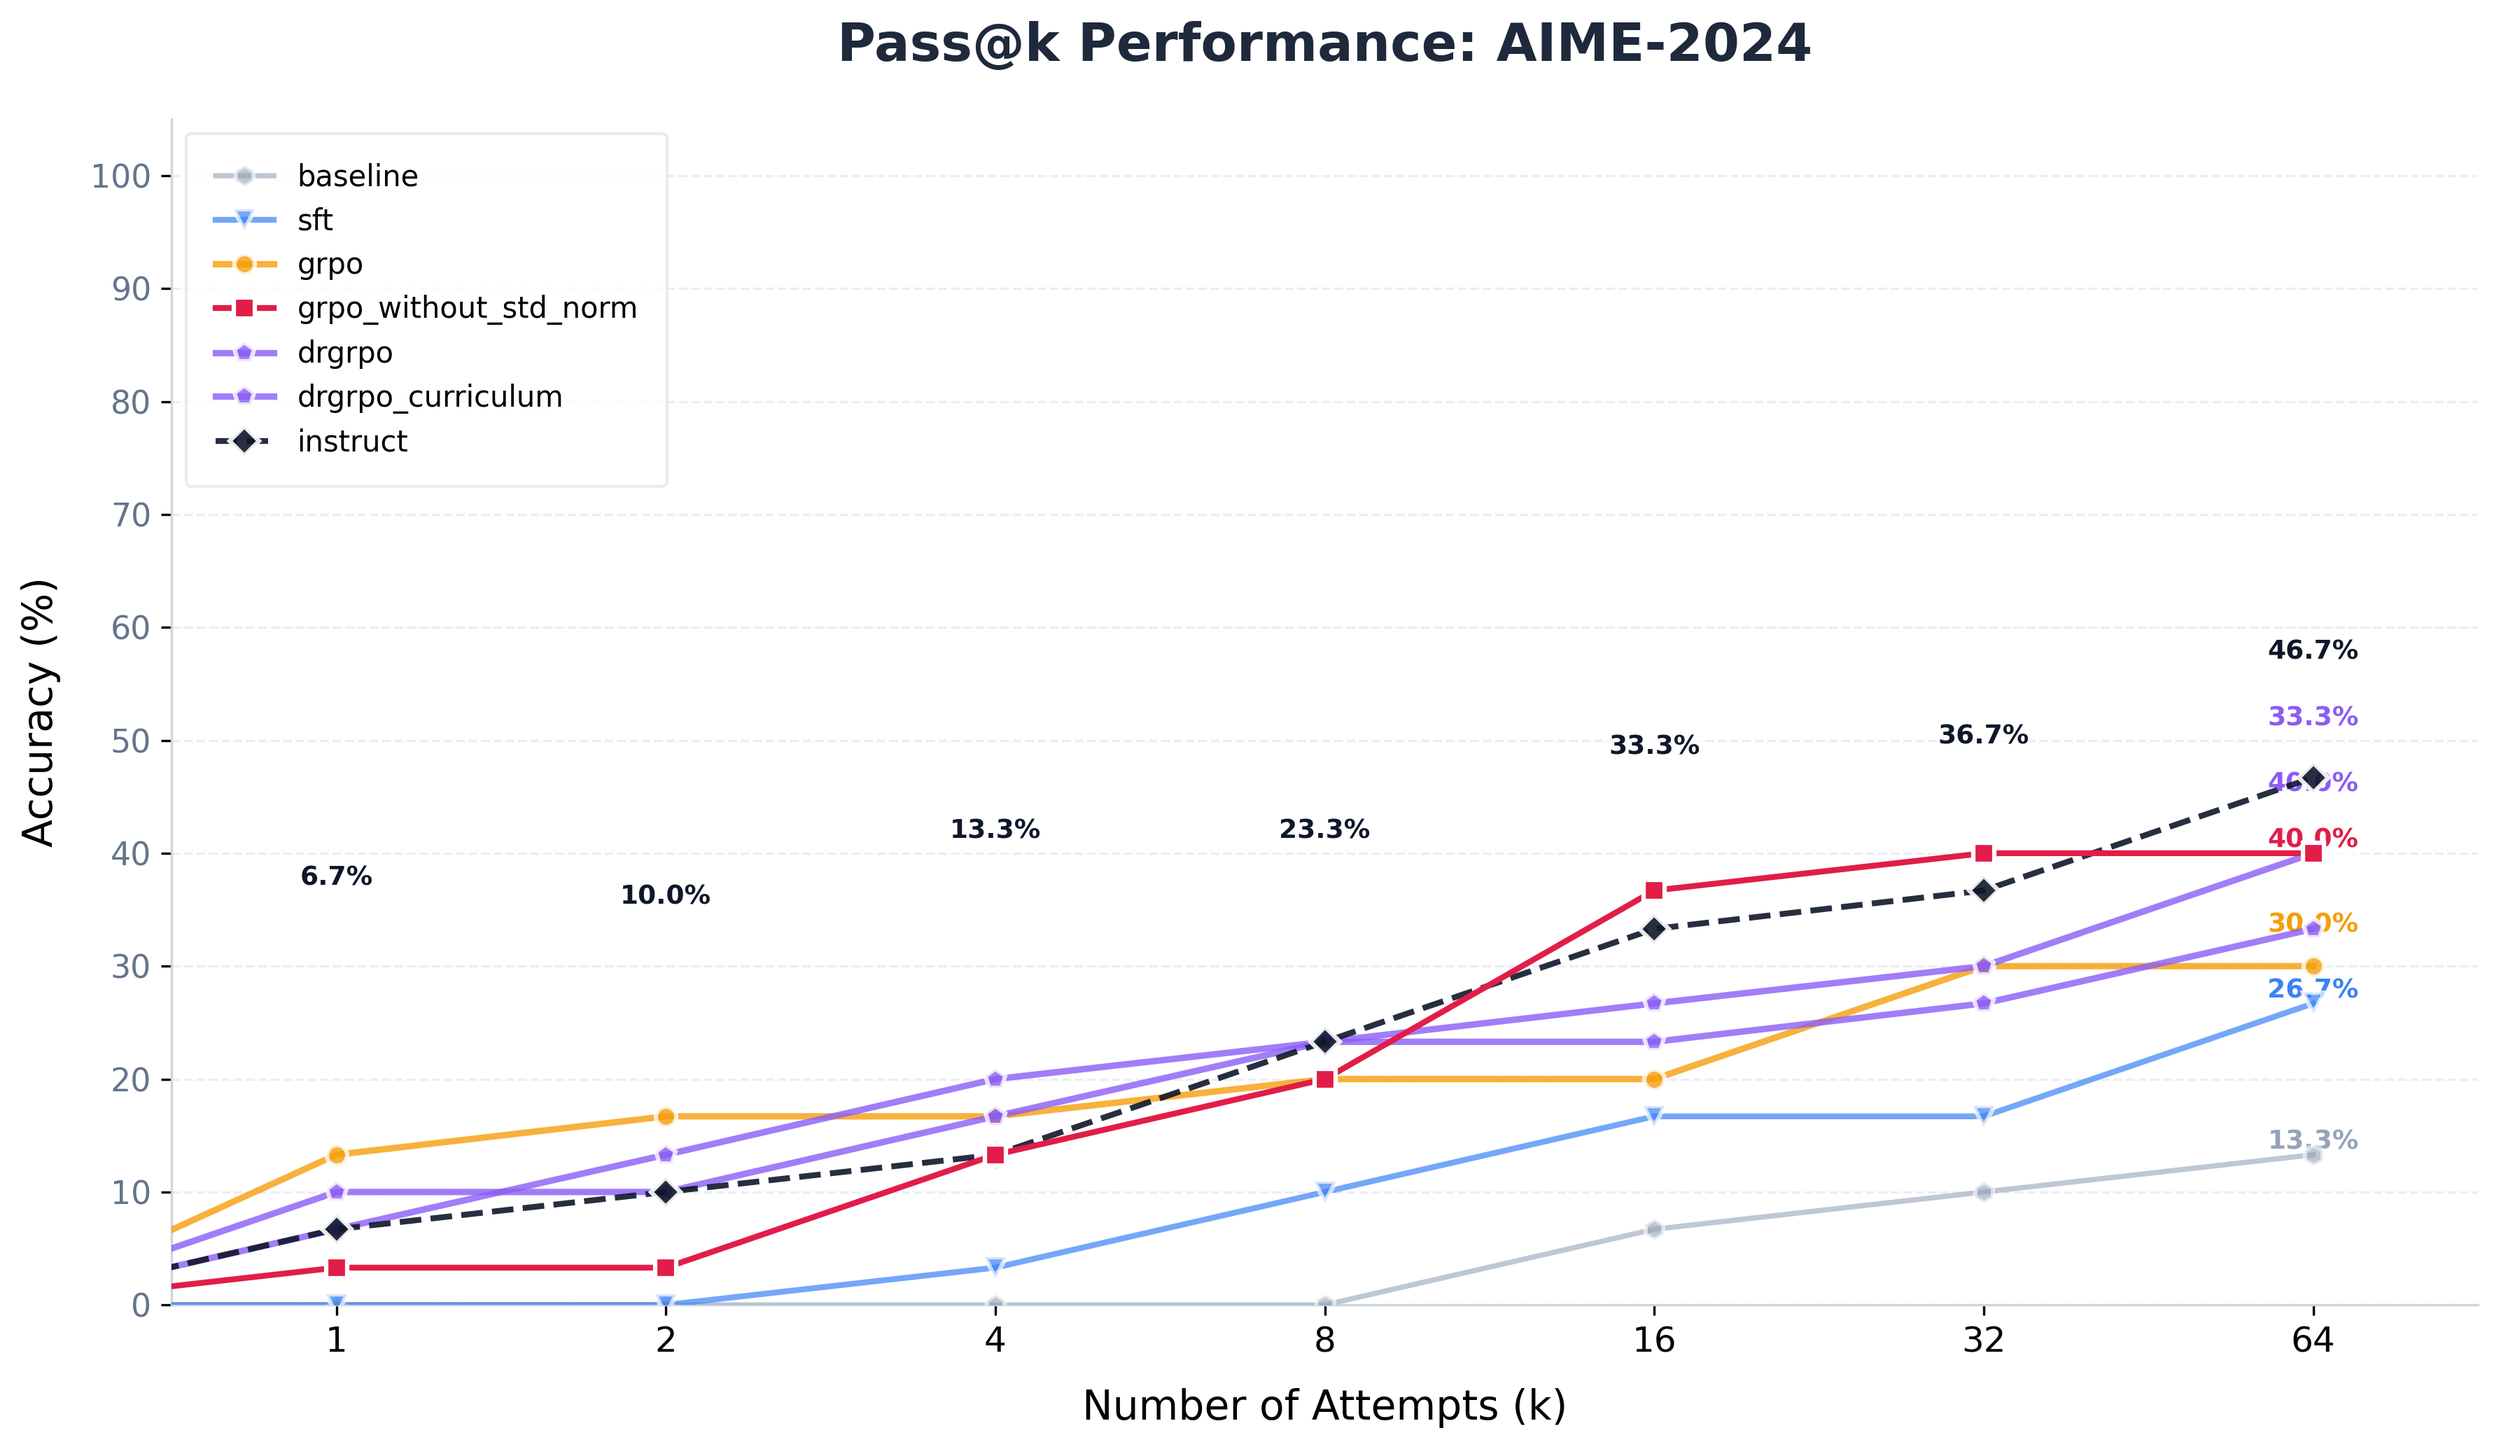
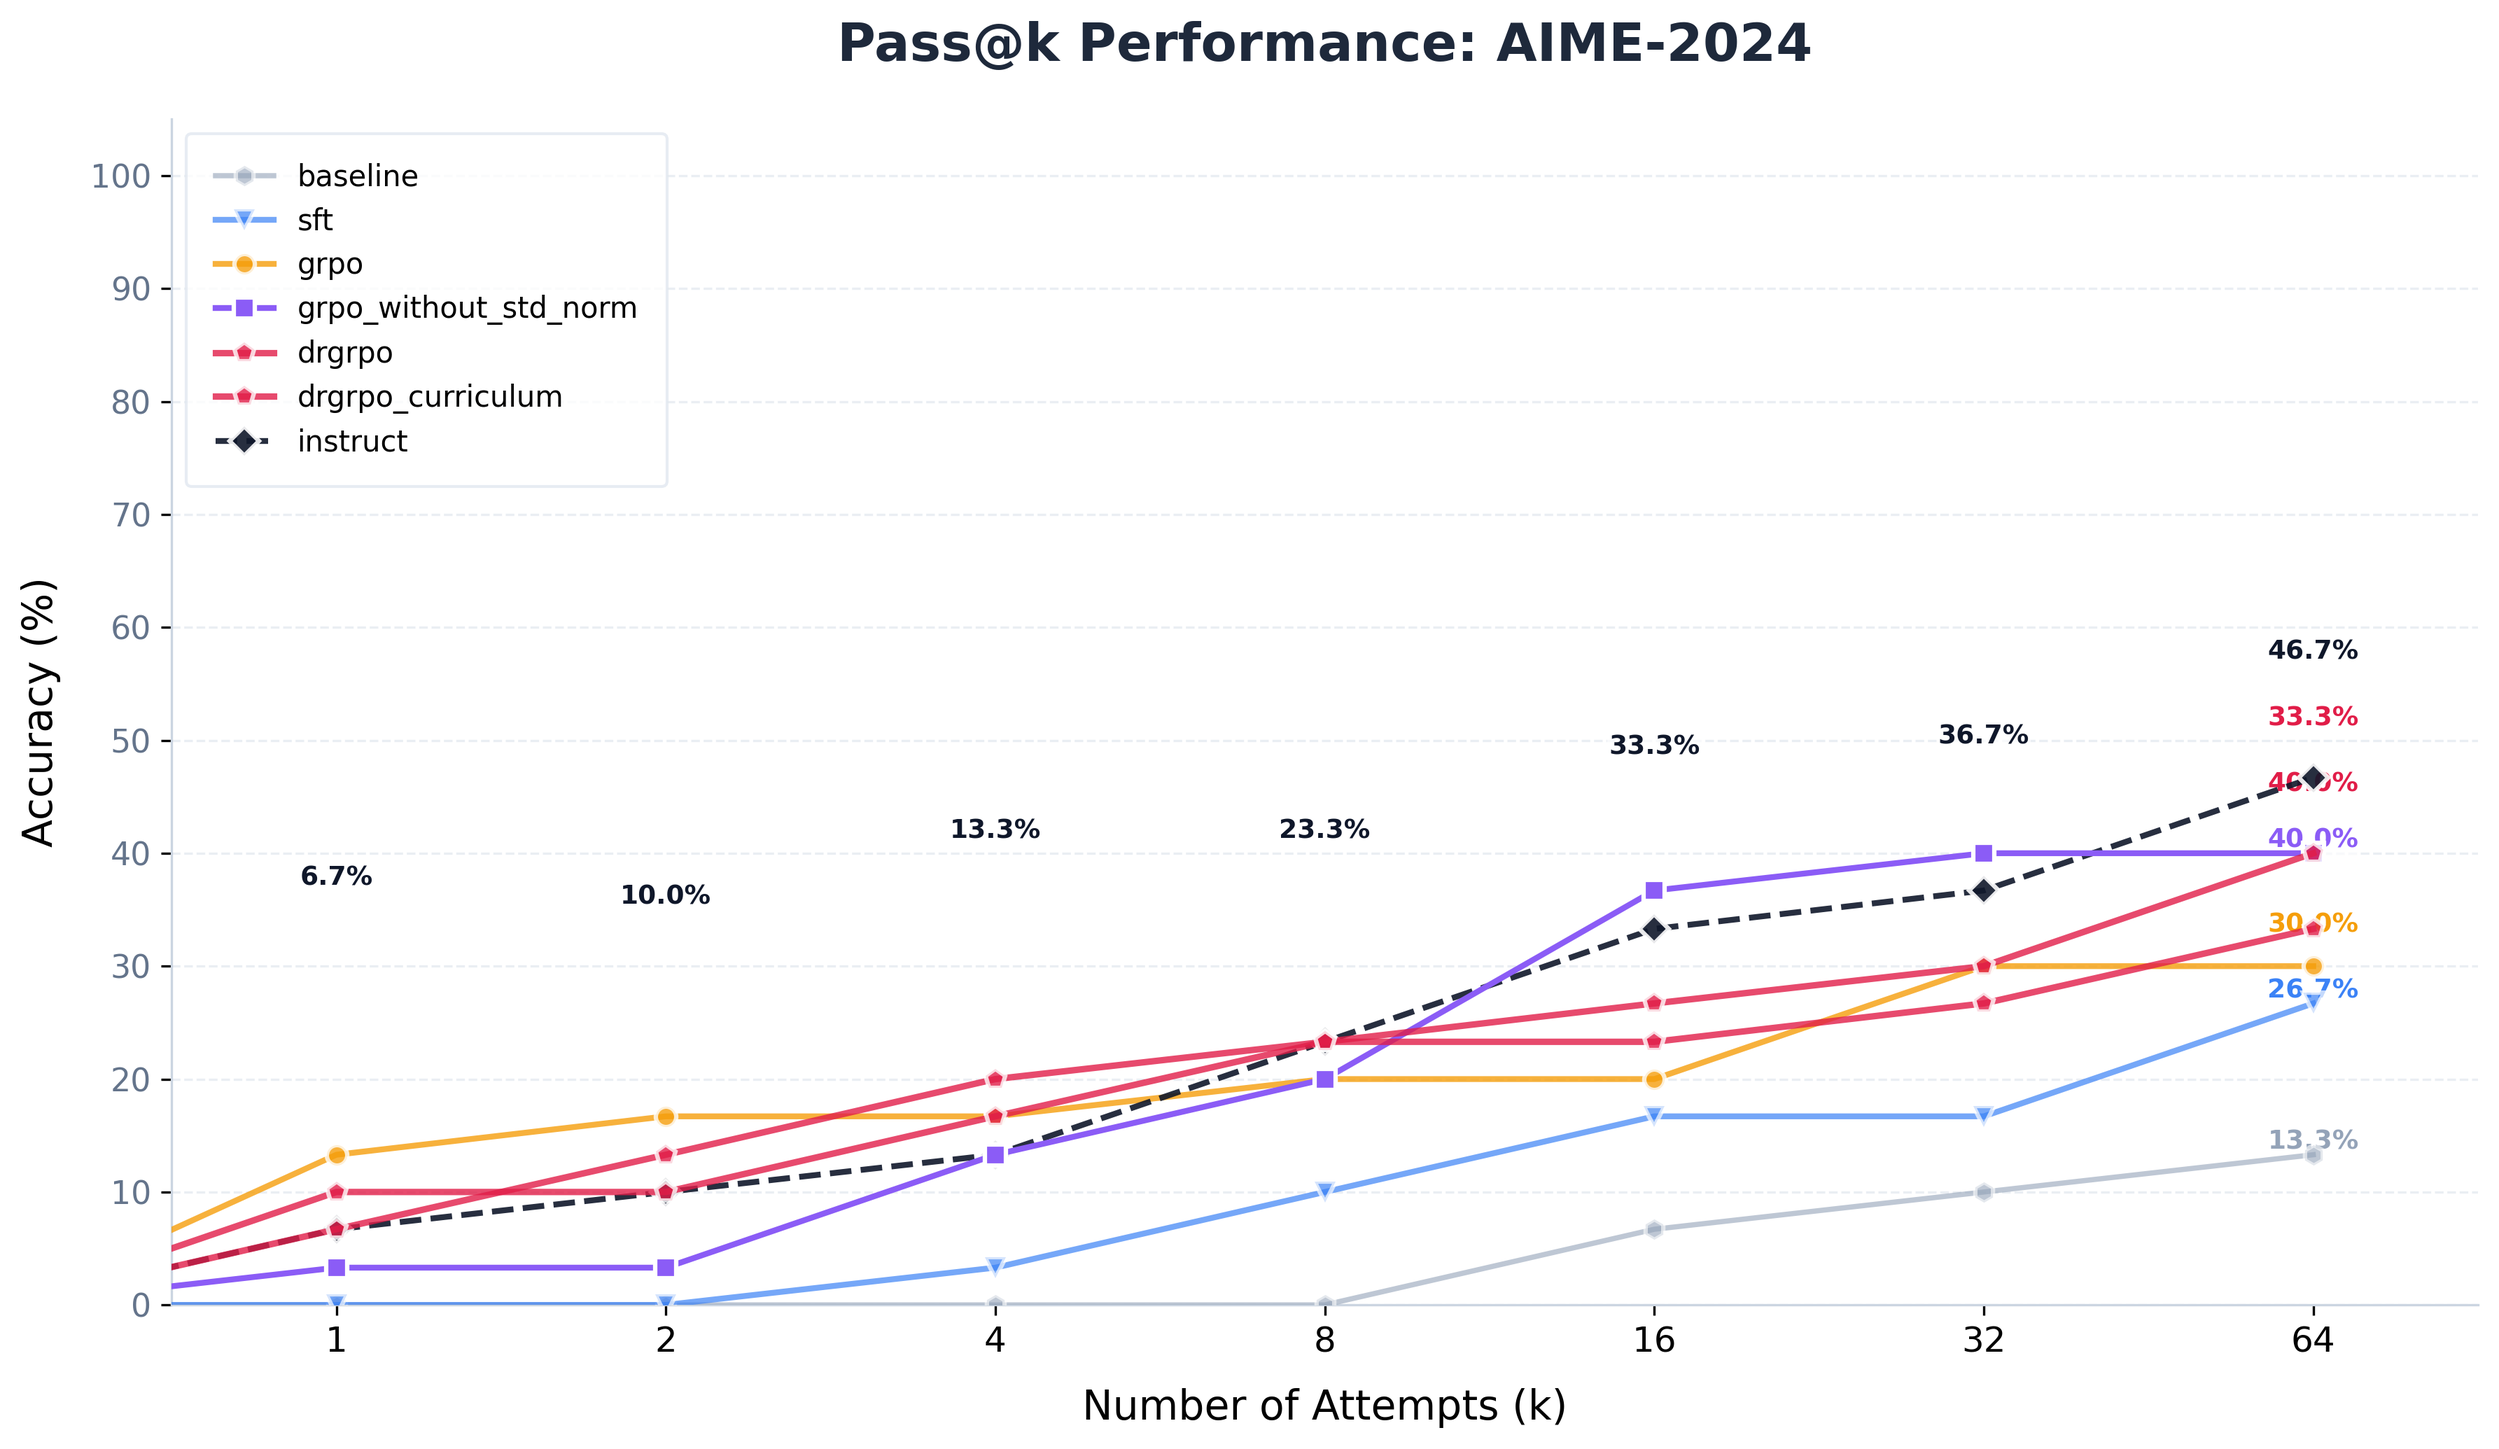
update pass@k for pacs and pass@k curve

Changed region(s): [[0.0622, 0.5256, 0.9328, 0.8966], [0.0933, 0.1855, 0.1244, 0.2783], [0.6218, 0.6184, 0.6529, 0.6493]]

diff --git a/assignment5-alignment/cs336_alignment/plotting/plot_passk_curve.py b/assignment5-alignment/cs336_alignment/plotting/plot_passk_curve.py
@@ -10,12 +10,13 @@ def plot_pass_k_curve(results_list, task_name: str, show_k_list=[1, 2, 4, 8], te
     # --- 1. 定义专业配色与样式配置 ---
     # 颜色字典：确保不同实验版本颜色固定，方便对比
     STYLE_CONFIG = {
-        'grpo_without_std_norm': {'color': '#E11D48', 'z': 20, 'lw': 2.0, 'marker': 's', 'alpha': 1.0},  # 核心实验：玫瑰红
-        'instruct': {'color': '#0F172A', 'z': 15, 'lw': 2.0, 'marker': 'D', 'alpha': 0.9, 'ls': '--'},  # 官方：深蓝黑
-        'drgrpo': {'color': '#8B5CF6', 'z': 10, 'lw': 2.2, 'marker': 'p', 'alpha': 0.8},  # 紫色
-        'grpo': {'color': '#F59E0B', 'z': 10, 'lw': 2.2, 'marker': 'o', 'alpha': 0.8},  # 琥珀色
+        'grpo_without_std_norm': {'color': '#8B5CF6', 'z': 18, 'lw': 2.0, 'marker': 's', 'alpha': 1.0},  # 紫色
+        'instruct': {'color': '#0F172A', 'z': 15, 'lw': 2.0, 'marker': 'D', 'alpha': 0.9, 'ls': '--'},  # 深蓝黑
+        'drgrpo': {'color': '#E11D48', 'z': 20, 'lw': 2.2, 'marker': 'p', 'alpha': 0.8},  # 玫瑰红
+        'grpo': {'color': '#F59E0B', 'z': 10, 'lw': 2.0, 'marker': 'o', 'alpha': 0.8},  # 琥珀色
         'sft': {'color': '#3B82F6', 'z': 8, 'lw': 2.0, 'marker': 'v', 'alpha': 0.7},  # 蓝色
         'baseline': {'color': '#94A3B8', 'z': 5, 'lw': 1.8, 'marker': 'h', 'alpha': 0.6},  # 灰色
+        'pacs': {'color': '#009182', 'z': 22, 'lw': 2.0, 'marker': '^', 'alpha': 0.8} # 墨绿色
     }
 
     plt.figure(figsize=(12, 7), dpi=300)
@@ -125,9 +126,9 @@ def plot_pass_k_curve(results_list, task_name: str, show_k_list=[1, 2, 4, 8], te
     save_dir = os.path.join(os.getcwd(), 'asset/')
     os.makedirs(save_dir, exist_ok=True)
     if text:
-        save_name = f'{task_name}_Pass@{last_k}对比图.png'
+        save_name = f'{task_name}_Pass@{last_k}对比图（含PACS）.png'
     else:
-        save_name = f'{task_name}_Pass@{last_k}对比图-无标注.png'
+        save_name = f'{task_name}_Pass@{last_k}对比图（含PACS）-无标注.png'
     save_path = os.path.join(save_dir, save_name)
     plt.savefig(save_path, dpi=300, bbox_inches='tight')
     plt.close()  # 释放内存
@@ -154,6 +155,10 @@ if __name__ == "__main__":
     grpo_math_test_pass8_result = {'grpo': (0.598, 0.721, 0.769, 0.795, 0.814, 0.825, 0.838, 0.847)}
 
     drgrpo_math_test_pass8_result = {'drgrpo': (0.585, 0.714, 0.760, 0.791, 0.809, 0.823, 0.835, 0.844)}
+
+
+    pacs_math_test_pass8_results = {'pacs': (0.585, 0.710, 0.762, 0.791, 0.812, 0.826, 0.836, 0.843)}
+
 
     baseline_math500_pass64_result = {'baseline': (0.144, 0.262, 0.320, 0.414, 0.482, 0.524, 0.578, 0.614,
                                                    0.642, 0.664, 0.700, 0.710, 0.714, 0.734, 0.750, 0.758,
@@ -410,11 +415,48 @@ if __name__ == "__main__":
                                                                      0.267, 0.267, 0.267, 0.300, 0.300, 0.333, 0.333, 0.333,
                                                                      0.333, 0.333, 0.333, 0.333, 0.333, 0.333, 0.333, 0.333)}
 
-    math_test_pass8_results  = [baseline_math_test_pass8_result, sft_math_test_pass8_result, grpo_without_std_norm_math_test_pass8_result, grpo_math_test_pass8_result, drgrpo_math_test_pass8_result, instruct_math_test_pass8_result]
-    math500_pass64_results   = [baseline_math500_pass64_result, sft_math500_pass64_result, grpo_math500_pass64_result, grpo_without_std_norm_math500_pass64_result, drgrpo_math500_pass64_result, drgrpo_curriculum_math500_pass64_results, instruct_math500_pass64_result]
-    amc12_pass64_results     = [baseline_AMC12_pass64_result, sft_AMC12_pass64_result, grpo_AMC12_pass64_result, grpo_without_std_norm_AMC12_pass64_result, drgrpo_amc_pass64_result,drgrpo_curriculum_amc12_pass64_results, instruct_AMC_12_pass64_result]
-    aime_2025_pass64_results = [baseline_aime25_pass64_result, sft_aime25_pass64_result, grpo_aime25_pass64_result, grpo_without_std_norm_aime25_pass64_result, drgrpo_aime25_pass64_result, instruct_aime25_pass64_result]
-    aime_2024_pass64_results = [baseline_aime24_pass64_result, sft_aime24_pass64_result, grpo_aime24_pass64_result, grpo_without_std_norm_aime24_pass64_result, drgrpo_aime24_pass64_result,drgrpo_curriculum_aime24_pass64_results, instruct_aime24_pass64_result]
+    pacs_aime24_pass64_results = {'pacs': (0.033, 0.067, 0.100, 0.133, 0.167, 0.167, 0.167, 0.200,
+                                           0.200, 0.233, 0.267, 0.267, 0.267, 0.267, 0.300, 0.300,
+                                           0.300, 0.300, 0.300, 0.300, 0.300, 0.300, 0.300, 0.300,
+                                           0.300, 0.300, 0.333, 0.367, 0.367, 0.367, 0.367, 0.367,
+                                           0.367, 0.367, 0.367, 0.367, 0.367, 0.367, 0.367, 0.367,
+                                           0.367, 0.367, 0.367, 0.367, 0.367, 0.367, 0.367, 0.367,
+                                           0.400, 0.400, 0.400, 0.400, 0.400, 0.400, 0.400, 0.400,
+                                           0.400, 0.400, 0.400, 0.400, 0.400, 0.400, 0.400, 0.400)}
+
+    pacs_aime25_pass64_results = {'pacs': (0.067, 0.100, 0.100, 0.167, 0.200, 0.200, 0.200, 0.200,
+                                           0.200, 0.200, 0.200, 0.200, 0.200, 0.233, 0.267, 0.267,
+                                           0.267, 0.267, 0.267, 0.300, 0.300, 0.300, 0.300, 0.300,
+                                           0.300, 0.300, 0.300, 0.333, 0.333, 0.333, 0.333, 0.333,
+                                           0.333, 0.333, 0.333, 0.333, 0.333, 0.333, 0.333, 0.333,
+                                           0.333, 0.333, 0.333, 0.333, 0.333, 0.333, 0.333, 0.333,
+                                           0.333, 0.333, 0.333, 0.333, 0.333, 0.333, 0.333, 0.333,
+                                           0.333, 0.333, 0.333, 0.333, 0.333, 0.333, 0.333, 0.333)}
+
+    pacs_amc_pass64_results = {'pacs':    (0.241, 0.398, 0.434, 0.494, 0.518, 0.530, 0.566, 0.566,
+                                           0.578, 0.578, 0.590, 0.602, 0.602, 0.614, 0.663, 0.663,
+                                           0.675, 0.675, 0.675, 0.675, 0.675, 0.699, 0.699, 0.699,
+                                           0.699, 0.699, 0.699, 0.699, 0.699, 0.699, 0.699, 0.699,
+                                           0.711, 0.723, 0.723, 0.723, 0.723, 0.723, 0.723, 0.723,
+                                           0.723, 0.735, 0.735, 0.735, 0.735, 0.735, 0.735, 0.735,
+                                           0.747, 0.747, 0.747, 0.747, 0.747, 0.747, 0.747, 0.747,
+                                           0.747, 0.747, 0.747, 0.747, 0.747, 0.747, 0.747, 0.747)}
+
+    pacs_math500_pass64_results = {'pacs': (0.562, 0.684, 0.732, 0.778, 0.792, 0.808, 0.824, 0.834,
+                                            0.850, 0.850, 0.854, 0.856, 0.862, 0.868, 0.874, 0.876,
+                                            0.878, 0.880, 0.884, 0.886, 0.886, 0.890, 0.894, 0.896,
+                                            0.900, 0.902, 0.904, 0.904, 0.906, 0.906, 0.908, 0.908,
+                                            0.908, 0.908, 0.910, 0.912, 0.914, 0.914, 0.920, 0.920,
+                                            0.920, 0.920, 0.920, 0.922, 0.924, 0.924, 0.924, 0.924,
+                                            0.924, 0.924, 0.926, 0.926, 0.926, 0.928, 0.928, 0.928,
+                                            0.928, 0.928, 0.928, 0.930, 0.930, 0.930, 0.930, 0.930)}
+
+
+    math_test_pass8_results  = [baseline_math_test_pass8_result, sft_math_test_pass8_result, grpo_without_std_norm_math_test_pass8_result, grpo_math_test_pass8_result, drgrpo_math_test_pass8_result, instruct_math_test_pass8_result, pacs_math_test_pass8_results]
+    math500_pass64_results   = [baseline_math500_pass64_result, sft_math500_pass64_result, grpo_math500_pass64_result, grpo_without_std_norm_math500_pass64_result, drgrpo_math500_pass64_result, drgrpo_curriculum_math500_pass64_results, instruct_math500_pass64_result, pacs_math500_pass64_results]
+    amc12_pass64_results     = [baseline_AMC12_pass64_result, sft_AMC12_pass64_result, grpo_AMC12_pass64_result, grpo_without_std_norm_AMC12_pass64_result, drgrpo_amc_pass64_result,drgrpo_curriculum_amc12_pass64_results, instruct_AMC_12_pass64_result, pacs_amc_pass64_results]
+    aime_2025_pass64_results = [baseline_aime25_pass64_result, sft_aime25_pass64_result, grpo_aime25_pass64_result, grpo_without_std_norm_aime25_pass64_result, drgrpo_aime25_pass64_result, instruct_aime25_pass64_result, pacs_aime25_pass64_results]
+    aime_2024_pass64_results = [baseline_aime24_pass64_result, sft_aime24_pass64_result, grpo_aime24_pass64_result, grpo_without_std_norm_aime24_pass64_result, drgrpo_aime24_pass64_result,drgrpo_curriculum_aime24_pass64_results, instruct_aime24_pass64_result, pacs_aime24_pass64_results]
 
 
 
